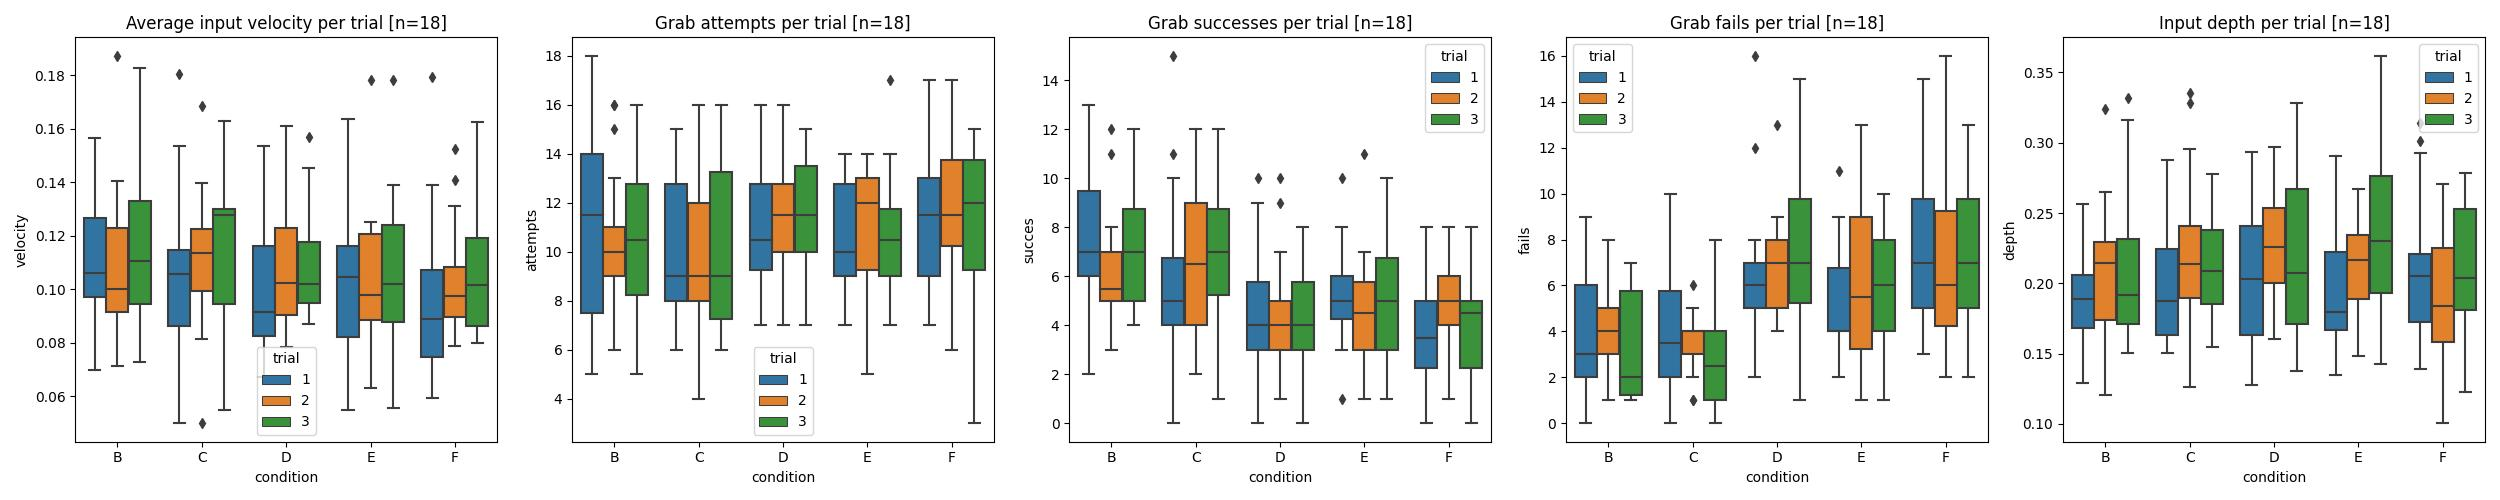
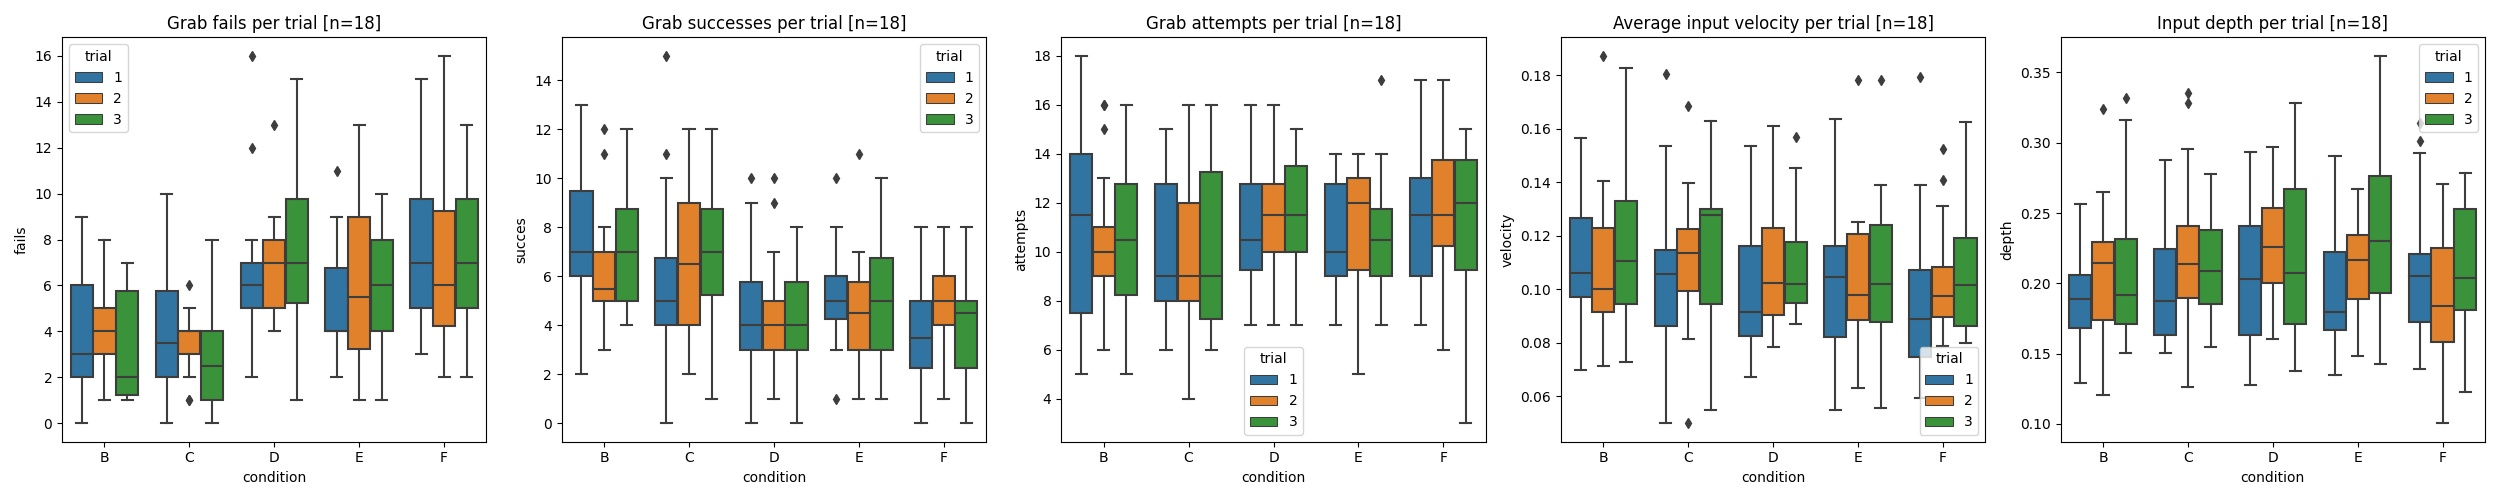
regrouped plots

diff --git a/plot.py b/plot.py
@@ -9,7 +9,7 @@ import seaborn as sns
 import functions
 
 dill.load_session('data_calculated.pkl')
-Participants = [1, 2, 3, 4, 5, 6, 7, 8, 9, 10, 11, 12, 13, 14, 15, 16, 17, 18]                            # number of participants
+Participants = [1, 2, 3, 4, 5, 6, 7, 8, 9, 10, 11, 12, 13, 14, 15, 16, 17, 18]                              # number of participants
 
 #%% plot sanity check data    
 fpss = []
@@ -74,40 +74,35 @@ for c in Conditions[1:]:
     average_velocity[c] = Velocity
     input_depth[c] = Depth
 
-fig2, ax2 = plt.subplots()
-ax2.boxplot(failed_grabs, whis=[0, 100], showmeans=True)
-ax2.set_title('Failed Grabs [Average n]')
-ax2.set_xlabel('Conditions')
-ax2.set_xticklabels(['B','C','D','E','F'])
-fig2.savefig("plots/failed_grabs.jpg")
+fig2, ax2 = plt.subplots(1,5, figsize=(25, 5))
 
-fig3, ax3 = plt.subplots()
-ax3.boxplot(correct_grabs, whis=[0, 100], showmeans=True)
-ax3.set_title('Correct Grabs [Average n]')
-ax3.set_xticklabels(['B','C','D','E','F'])
-ax3.set_xlabel('Conditions')
-fig3.savefig("plots/correct_grabs.jpg")
+ax2[0].boxplot(failed_grabs, whis=[0, 100], showmeans=True)
+ax2[0].set_title('Failed Grabs [Average n]')
+ax2[0].set_xlabel('Conditions')
+ax2[0].set_xticklabels(['B','C','D','E','F'])
 
-fig4, ax4 = plt.subplots()
-ax4.boxplot(average_velocity, whis=[0, 100], showmeans=True)
-ax4.set_title('Average Velocity [m/s]')
-ax4.set_xlabel('Conditions')
-ax4.set_xticklabels(['B','C','D','E','F'])
-fig4.savefig("plots/average_velocity.jpg")
+ax2[1].boxplot(correct_grabs, whis=[0, 100], showmeans=True)
+ax2[1].set_title('Correct Grabs [Average n]')
+ax2[1].set_xticklabels(['B','C','D','E','F'])
+ax2[1].set_xlabel('Conditions')
 
-fig5, ax5 = plt.subplots()
-ax5.boxplot(input_depth, whis=[0, 100], showmeans=True)
-ax5.set_title('Input depth [m]')
-ax5.set_xlabel('Conditions')
-ax5.set_xticklabels(['B','C','D','E','F'])
-fig5.savefig("plots/input_depth.jpg")
+ax2[2].boxplot(grab_attempts, whis=[0, 100], showmeans=True)
+ax2[2].set_title('grab_attempts [Average n]')
+ax2[2].set_xticklabels(['B','C','D','E','F'])
+ax2[2].set_xlabel('Conditions')
 
-fig6, ax6 = plt.subplots()
-ax6.boxplot(grab_attempts, whis=[0, 100], showmeans=True)
-ax6.set_title('grab_attempts [Average n]')
-ax6.set_xticklabels(['B','C','D','E','F'])
-ax6.set_xlabel('Conditions')
-fig6.savefig("plots/grab_attempts.jpg")
+ax2[3].boxplot(average_velocity, whis=[0, 100], showmeans=True)
+ax2[3].set_title('Average Velocity [m/s]')
+ax2[3].set_xlabel('Conditions')
+ax2[3].set_xticklabels(['B','C','D','E','F'])
+
+ax2[4].boxplot(input_depth, whis=[0, 100], showmeans=True)
+ax2[4].set_title('Input depth [m]')
+ax2[4].set_xlabel('Conditions')
+ax2[4].set_xticklabels(['B','C','D','E','F'])
+
+fig2.tight_layout()
+fig2.savefig("plots/trial_average.jpg")
 
 #%% plot learning effects in average trial velocity and grab attempts
 trial_velocity = pd.DataFrame([] , columns=['velocity', 'participant', 'condition', 'trial'])
@@ -124,20 +119,20 @@ for p in Participants:
             new_row = [data[p][c][t]['depth'], p, c, t]
             trail_depth.loc[len(trial_grabs)] = new_row            
 
-fig7, ax7 = plt.subplots(1,5, figsize=(25, 5))
-sns.boxplot(x=trial_velocity['condition'], y=trial_velocity['velocity'], hue=trial_velocity['trial'], ax=ax7[0])
-ax7[0].set_title('Average input velocity per trial [n={}]'.format(len(Participants)))
-sns.boxplot(x=trial_grabs['condition'], y=trial_grabs['attempts'], hue=trial_grabs['trial'], ax=ax7[1])
-ax7[1].set_title('Grab attempts per trial [n={}]'.format(len(Participants)))
-sns.boxplot(x=trial_grabs['condition'], y=trial_grabs['succes'], hue=trial_grabs['trial'], ax=ax7[2])
-ax7[2].set_title('Grab successes per trial [n={}]'.format(len(Participants)))
-sns.boxplot(x=trial_grabs['condition'], y=trial_grabs['fails'], hue=trial_grabs['trial'], ax=ax7[3])
-ax7[3].set_title('Grab fails per trial [n={}]'.format(len(Participants)))
-sns.boxplot(x=trail_depth['condition'], y=trail_depth['depth'], hue=trail_depth['trial'], ax=ax7[4])
-ax7[4].set_title('Input depth per trial [n={}]'.format(len(Participants)))
+fig3, ax3 = plt.subplots(1,5, figsize=(25, 5))
+sns.boxplot(x=trial_grabs['condition'], y=trial_grabs['fails'], hue=trial_grabs['trial'], ax=ax3[0])
+ax3[0].set_title('Grab fails per trial [n={}]'.format(len(Participants)))
+sns.boxplot(x=trial_grabs['condition'], y=trial_grabs['succes'], hue=trial_grabs['trial'], ax=ax3[1])
+ax3[1].set_title('Grab successes per trial [n={}]'.format(len(Participants)))
+sns.boxplot(x=trial_grabs['condition'], y=trial_grabs['attempts'], hue=trial_grabs['trial'], ax=ax3[2])
+ax3[2].set_title('Grab attempts per trial [n={}]'.format(len(Participants)))
+sns.boxplot(x=trial_velocity['condition'], y=trial_velocity['velocity'], hue=trial_velocity['trial'], ax=ax3[3])
+ax3[3].set_title('Average input velocity per trial [n={}]'.format(len(Participants)))
+sns.boxplot(x=trail_depth['condition'], y=trail_depth['depth'], hue=trail_depth['trial'], ax=ax3[4])
+ax3[4].set_title('Input depth per trial [n={}]'.format(len(Participants)))
 
-fig7.tight_layout()
-fig7.savefig("plots/learning_effects.jpg")
+fig3.tight_layout()
+fig3.savefig("plots/learning_effects.jpg")
 
 # %% plot input paths
 # for p in [8]:

diff --git a/evaluate.py b/evaluate.py
@@ -33,8 +33,8 @@ print('Input Depth:'), print(p_input_depth), print()
 print('Plotting P-value tables')
 
 #%% plotting p-value tables
-fig8, ax8 = plt.subplots(5, 1, figsize=(5, 10))
-fig8.patch.set_visible(False)
+fig4, ax4 = plt.subplots(5, 1, figsize=(5, 10))
+fig4.patch.set_visible(False)
 
 functions.tablesubplot(ax8[0], p_grab_fails, 'Failed Grabs')
 functions.tablesubplot(ax8[1], p_grab_succes, 'Correct grabs')
@@ -42,8 +42,8 @@ functions.tablesubplot(ax8[2], p_grab_attemts, 'Grab attempts')
 functions.tablesubplot(ax8[3], p_input_velocity, 'Input Velocity')
 functions.tablesubplot(ax8[4], p_input_depth, 'Input depth')
 
-fig8.tight_layout()
-fig8.savefig("plots/p_values.jpg")
+fig4.tight_layout()
+fig4.savefig("plots/p_values.jpg")
 
 #%% saving variables
 print(), print('Dumping evaluated data to file...')
